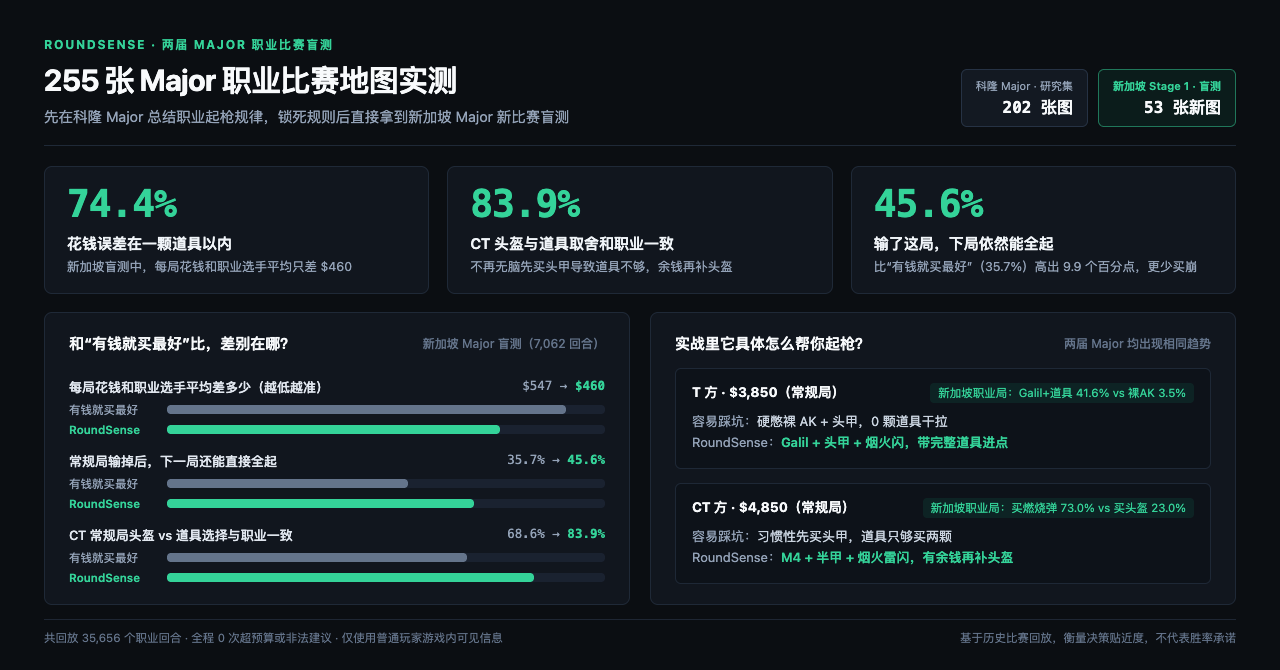
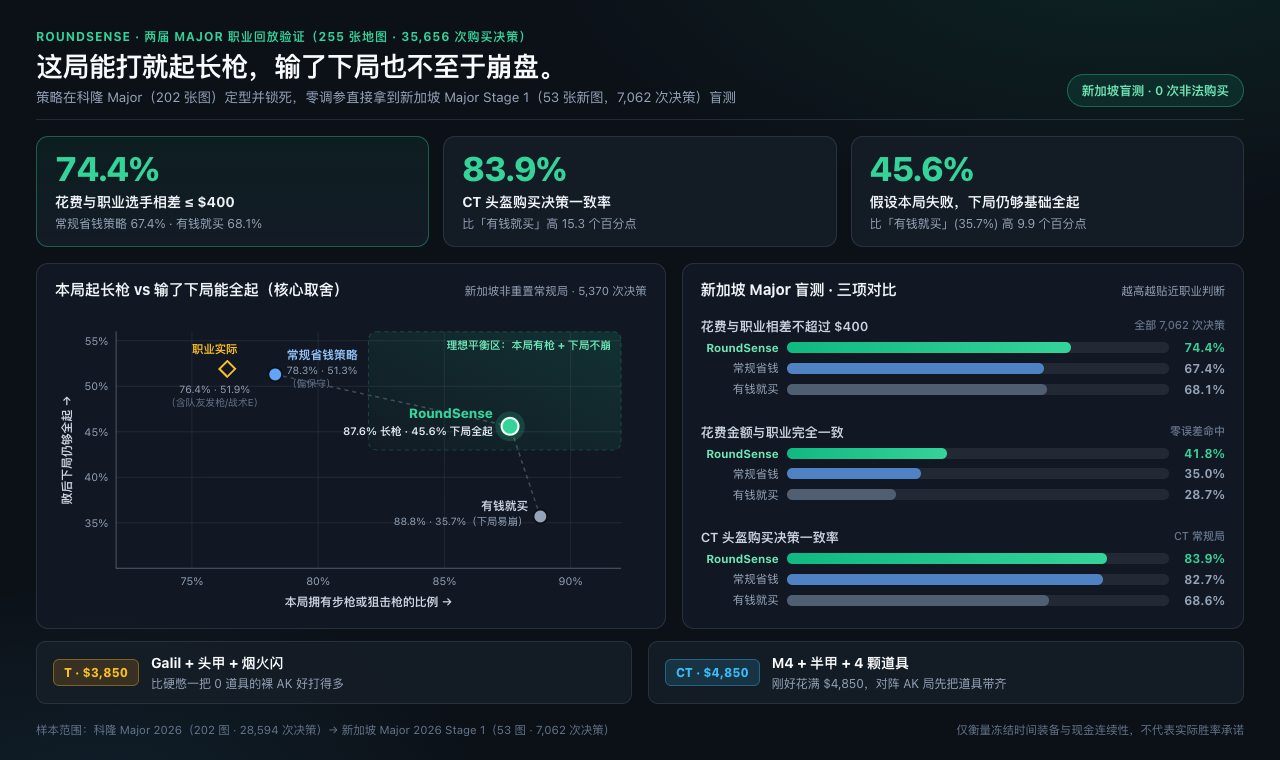
docs: tighten validation wording, add 2D tradeoff chart, and document corpus limits

Changed region(s): [[0.0312, 0.0299, 0.9688, 0.9851], [0.75, 0.0896, 0.9688, 0.209], [0.4062, 0.7463, 0.4688, 0.806]]

diff --git a/scripts/cross-event-replay-benchmark.ts b/scripts/cross-event-replay-benchmark.ts
@@ -954,6 +954,8 @@ async function main() {
       const econByRoundPlayer = new Map<string, PlayerEconRecord>();
       for (const e of economies) econByRoundPlayer.set(`${e.roundNumber}:${e.playerIndex}`, e);
 
+      // Corpus limitation #1: rounds.json does not expose the engine's internal loss-bonus
+      // counter directly, so we reconstruct it using standard MR12 win (-1) / loss (+1) stepping.
       const teamLoss = new Map<string, number>();
       let lossA = 1;
       let lossB = 1;
@@ -1041,6 +1043,9 @@ async function main() {
             kit: alive ? Boolean(flags & 4) : false,
             grenades: alive ? mapGrenades(track.grenades.at(-1)!) : [],
           };
+          // Corpus limitation #2: replay.json tracks only the active held weapon at round end
+          // rather than full inventory, so retained primary/secondary/helmet fall back to the
+          // prior round's freeze-time snapshot (large pickup jumps are filtered by >$800 delta).
           if (alive && prevEcon) {
             retainedPrimary = itemOf(prevEcon.primaryWeapon);
             retainedSecondary = itemOf(prevEcon.secondaryWeapon) ?? undefined;

diff --git a/README.md b/README.md
@@ -2,19 +2,19 @@
 
 **简体中文** | [English](README.en.md)
 
-**只读、零注入的 CS2 冻结时间经济决策 HUD。**  
-在每回合 15 秒冻结时间里，于雷达下方用 1–2 秒帮你看清三个最关键的问题：**这局最多值多少？预算内买什么？输了下一局还能不能全起？** 回合开始后自动隐藏，绝不打扰对枪。
+**不读内存、不注入游戏的 CS2 冻结时间买枪提示 HUD。**  
+每回合 15 秒冻结时间里，在雷达下方用 1–2 秒帮你看清三件事：**这局该花多少钱、买什么装备、输了下局还能不能全起。** 回合一开始就自动隐藏，绝不挡视野。
 
 ---
 
 ## 为什么做 RoundSense？
 
-很多 CS2 经济工具要么只给你丢一套固定配装，要么像外挂一样读内存。RoundSense 的起枪逻辑基于 **IEM Cologne Major 2026 职业比赛 demo（200+ 张地图、超过 2 万个有效回合）** 总结而来，不替你做唯一决定，而是把所有合理的起枪路线和后果并排摊开：
+市面上的 CS2 买枪工具，要么只给你塞一套死板配装，要么像外挂一样去读游戏内存。RoundSense 的起枪规则来自 **IEM Cologne Major 2026（202 张职业地图、2.8 万多次玩家购买记录）**，不替你做决定，而是把这局几种靠谱的买法和后果并排摆出来：
 
-1. **帮新人真正看懂 CS2 经济系统**  
-   不用死背“什么时候该起、什么时候该 E”。直接对照职业选手的常见起枪方式，一眼看清全起、强起、半起、ECO 分别会带来什么结果——为什么这局不能强起、半起最多花多少、为什么有时候必须保钱。
-2. **帮老玩家和指挥防上头**  
-   连败或焦灼局最容易一时上头无脑强起。RoundSense 直接把**强起的代价**摆在眼前（这局输了下一局剩多少钱、还能不能全起），帮你和队友在 15 秒内冷静判断该拼还是该 E。
+1. **帮新人快速看懂 CS2 经济**  
+   不用死背“什么时候该起、什么时候该 E”。直接对照职业比赛里常见的买法，一眼就能看明白全起、强起、半起和 ECO 各自是什么结果——为什么这局不能硬起、半起最多花多少、什么时候必须留钱。
+2. **帮老玩家和指挥少上头**  
+   连败或焦灼局最容易一拍脑袋无脑强起。RoundSense 直接把**强起的代价**摆在屏幕上（这局输了下局剩多少钱、还能不能起长枪），帮你和队友在 15 秒里冷静判断这局该拼还是该 E。
 
 > 对策略研究过程与职业语料验收细节感兴趣的玩家或开发者，可以查阅 [研究归档索引](docs/research-index.md)。
 
@@ -40,25 +40,25 @@
 
 ## 这套买枪建议靠谱吗？（两届 Major 职业回放盲测）
 
-很多人最关心的问题很简单：**「它是不是瞎推荐的？跟自己凭感觉买有什么区别？」**
+很多人第一反应会问：**「它推荐的到底靠不靠谱？跟我自己凭感觉买有什么区别？」**
 
-为了验证这一点，我们先在 **IEM Cologne Major 2026**（202 张职业地图）上研究职业选手的起枪习惯并定型规则，随后**直接锁死算法**，不做任何调参，原封不动拿到另一届 Major —— **PGL Singapore Major 2026 · Stage 1**（53 张新图、7,062 个回合）上盲测。测试全程只给 RoundSense 看普通玩家在游戏里能看到的钱和装备：
+为了验证，我们先在 **IEM Cologne Major 2026**（202 张职业地图）上研究职业选手的买枪习惯并把规则定死，随后**不做任何调参**，直接拿到另一届 Major —— **PGL Singapore Major 2026 · Stage 1**（53 张新图、7,062 次玩家购买决策）上盲测。测试全程只给 RoundSense 看普通玩家在游戏里能看到的钱和装备：
 
 ![RoundSense 两届 Major 职业回放盲测（科隆 vs 新加坡 Stage 1）](docs/assets/cross-event-validation.png)
 
-普通玩家最直观的三点感受（新加坡 Major 盲测结果，只看第 1 推荐方案）：
+它不是一味劝你省钱的保守策略，也不是有钱就乱花——核心就是把**这局的装备**和**下局的经济**平衡好（以下为新加坡 Major 盲测中第 1 推荐方案的结果）：
 
-- **买得更像职业哥**：**74.4%** 的回合花钱误差在一颗道具（$400）以内，每局平均只差 **$460**；保枪补装备时平均只差 **$272**。
-- **不容易把下一局买崩**：输掉常规局后，下局依然能直接全起的比例达到 **45.6%**（比「有钱就买最好」高出 **9.9 个百分点**），同时本局仍然保持 **87.6%** 的长枪/狙火力。
-- **道具和头盔取舍更稳，零低级错误**：主武器选择与职业一致率 **77.4%**，CT 什么时候该先买道具、什么时候再补头盔一致率 **83.9%**；整届比赛 **0 次超预算、0 次买错阵营、0 次重复废话**。
+- **花钱贴近职业判断**：**74.4%** 的决策与职业选手实际花费相差不超过 **$400**（平均差 **$460**，保枪补装备时平均只差 **$272**），**41.8%** 金额完全一致。
+- **这局有长枪，输了下局也不易崩**：**87.6%** 的非重置常规局能起出步枪或狙击枪（接近「有钱就买」的 88.8%），同时**假设本局失败，下局现金仍够基础全起**的比例达到 **45.6%**（比「有钱就买」高出 **9.9 个百分点**）。
+- **头盔与武器选择更稳，不犯低级错**：主武器类别一致率 **77.4%**，**CT 头盔购买决策一致率 83.9%**；全部纳入验证的样本中 **0 次非法购买、0 次超预算、0 次重复选项**。
 
-典型实战里它会怎么帮你做决定？
+实战里遇到下面这些常见局势，它会怎么建议？
 
-| 常见局势 | 简单买法容易踩的坑 | RoundSense 怎么给建议 |
+| 常见局势 | 凭感觉买容易踩的坑 | RoundSense 怎么给建议 |
 | :--- | :--- | :--- |
-| **T · $3,850**（常规局） | 硬憋裸 AK + 头甲，0 颗道具干拉 | 推荐 **Galil + 头甲 + 烟火闪**，完整配装进点 |
-| **CT · $4,850**（常规局） | 习惯性先买头甲，道具只剩两颗 | 优先 **M4 + 半甲 + 烟火雷闪**（有余钱再补头盔，并附注队友无钳可补钳） |
-| **CT · $3,450**（连败 1 局） | 要么全花光把下局买崩，要么干脆 $0 发呆 | 给出 **半起上限 `≤ $1,300`**（输了下一局仍可全起）+ ECO / 强起对照 |
+| **T · $3,850**（常规局） | 硬憋裸 AK + 头甲，0 颗道具干拉 | 推荐 **Galil + 头甲 + 烟火闪**，装备完整好进点 |
+| **CT · $4,850**（常规局） | 习惯性先买头甲，道具只剩两颗 | 推荐 **M4 + 半甲 + 4 颗道具**（刚好花满 $4,850，对阵 AK 局先把道具带齐） |
+| **CT · $3,450**（连败 1 局） | 要么全花光把下局买崩，要么干脆 $0 发呆 | 给出 **半起上限 `≤ $1,300`**（假设败局下局仍够全起），同时列出 ECO / 强起方便对比 |
 
 <details>
 <summary>展开查看完整跨赛事技术对照表（四组基准 · 科隆开发集 vs 新加坡 S1 盲测）</summary>
@@ -67,18 +67,20 @@
 | :--- | ---: | ---: |
 | **首选购买金额平均偏差 MAE**（vs B0 / B1 / B2） | **$472**（vs $555 / $490 / $539） | **$460**（vs $547 / $461 / $527） |
 | **首选误差 ≤ $400** | **73.2%**（vs 66.7% / 64.2% / 72.0%） | **74.4%**（vs 68.1% / 67.4% / 74.0%） |
+| **首选金额完全一致**（vs B0 / B1 / B2） | **39.7%**（vs 28.3% / 32.9% / 35.4%） | **41.8%**（vs 28.7% / 35.0% / 36.7%） |
 | **首选主武器类别一致率** | **76.8%**（vs 69.2% / 77.5% / 72.1%） | **77.4%**（vs 69.6% / 77.6% / 72.7%） |
-| **CT 常规局头盔一致率** | **83.0%**（vs 71.7% / 80.8% / 76.7%） | **83.9%**（vs 68.6% / 82.7% / 74.2%） |
-| **本局步枪/狙火力 · 败后下局全起**（职业实际 73.1%·51.6% / 76.4%·51.9%） | **86.4% · 44.3%**（B0 86.7%·33.3% / B1 75.3%·51.6%） | **87.6% · 45.6%**（B0 88.8%·35.7% / B1 78.3%·51.3%） |
+| **CT 常规局头盔购买决策一致率** | **83.0%**（vs 71.7% / 80.8% / 76.7%） | **83.9%**（vs 68.6% / 82.7% / 74.2%） |
+| **本局步枪/狙持有率 · 败后下局基础全起**（职业实际 73.1%·51.6% / 76.4%·51.9%） | **86.4% · 44.3%**（B0 86.7%·33.3% / B1 75.3%·51.6%） | **87.6% · 45.6%**（B0 88.8%·35.7% / B1 78.3%·51.3%） |
 | **备选方案 ≤ $400 覆盖 / 平均方案数** | **81.8% / 1.55** | **82.6% / 1.52** |
 | **机械审计（非法或超限 / 重复方案 / 半起破底线）** | **0 / 0 / 0**（旧版 V3: 0 / 10,208 / 1,904） | **0 / 0 / 0**（旧版 V3: 0 / 2,524 / 369） |
 
-- 统一复现脚本（基于 `replay.json` 回合末真实状态恢复）：[cross-event-replay-benchmark.ts](scripts/cross-event-replay-benchmark.ts)
+- 统一复现脚本（基于 `replay.json` 回合末存活/护甲/钳子/道具恢复）：[cross-event-replay-benchmark.ts](scripts/cross-event-replay-benchmark.ts)
 - 完整机器可读数据：[cologne-cross-event-benchmark.json](docs/data/cologne-cross-event-benchmark.json) · [singapore-s1-cross-event-benchmark.json](docs/data/singapore-s1-cross-event-benchmark.json)
+- **已知语料恢复局限**：① 语料 `rounds.json` 未单独记录引擎连败计数器，连败等级按胜局减 1、败局加 1 推算；② 语料 `replay.json` 仅记录回合末当前手持武器而非完整背包，存活保留的主武器与头盔沿用上一局冻结时间结束时的装备记录（局内捡枪导致的大额价值跳变已通过 `>$800` 价值偏差过滤排除）。
 
 </details>
 
-- *说明：以上为基于历史比赛录像的冻结时间决策回放验证；新加坡 Stage 1 未参与任何策略制定，数据原样保留，衡量决策合理性与经济连续性，不代表胜率承诺。*
+- *说明：以上为基于历史比赛录像的冻结时间回放验证；新加坡 Stage 1 未参与任何规则调整，数据原样保留，仅衡量装备与现金连续性，不代表胜率承诺。*
 
 ---
 
@@ -86,7 +88,7 @@
 
 - **解压即用**：Windows 便携 ZIP 内置完整 Node 运行时与本地服务，无需安装 Node、pnpm 或 Rust。
 - **绝对只读、兼容 VAC**：仅使用 CS2 官方本地 HTTP Game State Integration（`127.0.0.1:3001`）与只读 Win32 窗口定位，**绝不读取或修改游戏内存，不注入游戏进程**。
-- **克制且诚实**：不编造拿不到的对手精确现金，不提供未经校准的 C4 倒计时；一旦离开冻结时间、切出游戏、进入观战或数据超时，HUD 自动隐藏。
+- **只展示拿得到的数据**：不猜对手手里精确有多少钱，也不给没校准的 C4 倒计时；离开冻结时间、切出游戏、进入观战或数据断开时，HUD 自动隐藏。
 - **三种经济角色**：支持 `步枪手`、`狙击手` 与 `Jame 攒狙`（买不起但下局能攒出 AWP + 半甲时，额外给出 ECO 攒狙路线）。
 - **一键配置与离线预览**：自动发现 Steam / CS2 目录并一键写入 GSI 配置（自动检测同端口冲突并备份原配置）；设置页内置亮/暗图与多比例离线场景，不开游戏也能先调好位置、缩放和透明度。
 - **安静的桌面体验**：单实例运行、关闭设置窗自动缩入系统托盘、叠层鼠标穿透且不抢游戏焦点；退出或异常关闭时通过 Windows Job Object 自动回收后台进程。
@@ -114,13 +116,13 @@
 ## 常见问答（FAQ）
 
 **Q：RoundSense 如何与 CS2 交互？安全性如何？**  
-RoundSense 仅通过 Valve 官方提供的本地 Game State Integration（GSI）HTTP 推送接收只读状态，并以独立的系统透明置顶窗口渲染叠层——**不读取或修改游戏内存、不向 `cs2.exe` 注入任何 DLL、不钩子游戏渲染、也不模拟任何键盘鼠标输入**。作为第三方开源工具，我们无法替 Valve 提供绝对的反作弊保证，但整个架构严格恪守只读零注入边界。
+RoundSense 仅通过 Valve 官方提供的本地 Game State Integration（GSI）HTTP 推送接收只读状态，并以独立的系统透明置顶窗口渲染叠层——**不读取或修改游戏内存、不向 `cs2.exe` 注入任何 DLL、不钩子游戏渲染、也不模拟任何键盘鼠标输入**。作为第三方开源工具，我们不能替 Valve 做绝对保证，但整个工具只走官方只读接口，绝不碰游戏进程和内存。
 
 **Q：为什么必须把 CS2 设为「全屏窗口化」？**  
 正因为 RoundSense 坚持不注入游戏进程，HUD 以独立的系统透明置顶窗口渲染。Windows 下独占全屏会由显卡驱动接管画面并遮挡外部窗口，切到「全屏窗口化」即可在零注入的前提下正常显示。
 
 **Q：为什么手枪局、观战或回合开始后看不到 HUD？**  
-这是刻意设计：回合开始后自动隐藏，避免遮挡视野；手枪局配装高度依赖个人与战术习惯，不强行建议；观战或非竞技模式同样自动隐藏。
+这是故意这样做的：回合开始后自动隐藏，避免挡视野；手枪局配装高度依赖个人与战术习惯，不强行建议；观战或非竞技模式同样自动隐藏。
 
 ---
 

diff --git a/README.en.md b/README.en.md
@@ -42,43 +42,45 @@ The live overlay contains only what you need to decide in a glance—zero prose,
 
 Every CS2 player asks the same question: **"Is this actually better than buying by gut feel?"**
 
-To test it honestly, we studied pro buying habits across **IEM Cologne Major 2026** (202 maps), **froze the rules**, and then ran them untouched—zero tuning—on a completely separate Major: **PGL Singapore Major 2026 · Stage 1** (53 new maps, 7,062 rounds), feeding it only the cash and gear a normal player sees in freezetime:
+To test it honestly, we studied pro buying habits across **IEM Cologne Major 2026** (202 maps), **froze the rules**, and then ran them untouched—zero tuning—on a completely separate Major: **PGL Singapore Major 2026 · Stage 1** (53 new maps, 7,062 player buy decisions), feeding it only the cash and gear a normal player sees in freezetime:
 
 ![RoundSense Cross-Event Out-of-Sample Validation (Cologne vs Singapore Stage 1)](docs/assets/cross-event-validation.png)
 
-Three things you actually feel in-game (from the **Singapore Major blind test**, comparing only the #1 top suggestion):
+RoundSense isn’t trying to be the stingiest eco bot—it balances **having a real gun this round** against **not breaking next round** (Singapore Major blind test, comparing only the #1 top suggestion):
 
-- **Buys closer to pro habits**: **74.4%** of rounds land within one grenade (**$400**) of actual pro spend ($460 average gap overall, and just **$272** when carrying gear over).
-- **Far less likely to break next round**: After losing a normal round, you can still full-buy next round **45.6%** of the time (**+9.9 percentage points** over "buy the best gun you can afford") while keeping rifle/AWP firepower on **87.6%** of rounds.
-- **Smarter helmet & utility calls, zero bad math**: **77.4%** main weapon match, **83.9%** CT helmet-vs-utility match, and **0** over-budget, wrong-side, or duplicate suggestions across the entire event.
+- **Spend stays close to pro decisions**: **74.4%** of decisions land within **$400** of actual pro spend ($460 average gap overall, **$272** when carrying gear over), with **41.8%** exact spend matches.
+- **Keep rifles now, still protect next round**: **87.6%** of normal non-reset rounds have a rifle or AWP (nearly matching "buy everything" at 88.8%), while **assuming a round loss, next-round cash still covers a basic full buy** **45.6%** of the time (**+9.9 percentage points** over "buy everything" at 35.7%).
+- **Cleaner helmet calls, zero illegal buys**: **77.4%** primary weapon family match, **83.9%** CT helmet decision match, and **0** illegal, over-budget, or duplicate buys across all evaluated samples.
 
 What does that look like in a real match?
 
 | Common Round | Typical Pitfall | What RoundSense Suggests |
 | :--- | :--- | :--- |
 | **T · $3,850** (normal) | Forcing bare AK + Vesthelm with 0 grenades | **Galil + Vesthelm + Smoke/Molotov/Flash** for a full execute |
-| **CT · $4,850** (normal) | Auto-buying helmet and running dry on utility | **M4 + Kevlar + 4 grenades** (tops up helmet with spare cash; optional kit note) |
-| **CT · $3,450** (1 loss) | Spending everything and breaking next round, or AFK $0 | **Light buy cap `≤ $1,300`** (protects next full buy) alongside ECO / Force |
+| **CT · $4,850** (normal) | Auto-buying helmet and running dry on utility | **M4 + Kevlar + 4 grenades** (uses the exact $4,850; skips helmet vs. AKs to bring full utility) |
+| **CT · $3,450** (1 loss) | Spending everything and breaking next round, or AFK $0 | **Light buy cap `≤ $1,300`** (assuming a loss, next round still full-buys) alongside ECO / Force |
 
 <details>
 <summary>Full technical cross-event table (4 strategies · Cologne study set vs. Singapore S1 blind test)</summary>
 
-| Strict 1-vs-1 Lead Metric (All Eligible Rounds) | Cologne Study Set (`n=28,594`) | Singapore S1 Blind Test (`n=7,062`) |
+| Strict 1-vs-1 Lead Metric (All Eligible Decisions) | Cologne Study Set (`n=28,594`) | Singapore S1 Blind Test (`n=7,062`) |
 | :--- | ---: | ---: |
 | **Lead spend MAE** (vs. B0 / B1 / B2) | **$472** (vs. $555 / $490 / $539) | **$460** (vs. $547 / $461 / $527) |
 | **Lead spend within $400** | **73.2%** (vs. 66.7% / 64.2% / 72.0%) | **74.4%** (vs. 68.1% / 67.4% / 74.0%) |
+| **Lead exact spend match** (vs. B0 / B1 / B2) | **39.7%** (vs. 28.3% / 32.9% / 35.4%) | **41.8%** (vs. 28.7% / 35.0% / 36.7%) |
 | **Lead primary weapon family match** | **76.8%** (vs. 69.2% / 77.5% / 72.1%) | **77.4%** (vs. 69.6% / 77.6% / 72.7%) |
-| **CT normal-round helmet match** | **83.0%** (vs. 71.7% / 80.8% / 76.7%) | **83.9%** (vs. 68.6% / 82.7% / 74.2%) |
-| **Current rifle/AWP · Next-round full-buy** (pro: 73.1%·51.6% / 76.4%·51.9%) | **86.4% · 44.3%** (B0 86.7%·33.3% / B1 75.3%·51.6%) | **87.6% · 45.6%** (B0 88.8%·35.7% / B1 78.3%·51.3%) |
+| **CT normal-round helmet decision match** | **83.0%** (vs. 71.7% / 80.8% / 76.7%) | **83.9%** (vs. 68.6% / 82.7% / 74.2%) |
+| **Current rifle/AWP · Post-loss next-round full-buy** (pro: 73.1%·51.6% / 76.4%·51.9%) | **86.4% · 44.3%** (B0 86.7%·33.3% / B1 75.3%·51.6%) | **87.6% · 45.6%** (B0 88.8%·35.7% / B1 78.3%·51.3%) |
 | **Option-set within $400 / avg options** | **81.8% / 1.55** | **82.6% / 1.52** |
 | **Mechanical audit (illegal/cap / duplicate / light-floor)** | **0 / 0 / 0** (legacy V3: 0 / 10,208 / 1,904) | **0 / 0 / 0** (legacy V3: 0 / 2,524 / 369) |
 
-- Reproducible unified script (`replay.json` end-of-round state recovery): [cross-event-replay-benchmark.ts](scripts/cross-event-replay-benchmark.ts)
+- Reproducible unified script (`replay.json` end-of-round alive/armor/kit/grenade recovery): [cross-event-replay-benchmark.ts](scripts/cross-event-replay-benchmark.ts)
 - Machine-readable reports: [cologne-cross-event-benchmark.json](docs/data/cologne-cross-event-benchmark.json) · [singapore-s1-cross-event-benchmark.json](docs/data/singapore-s1-cross-event-benchmark.json)
+- **Known corpus recovery approximations**: (1) `rounds.json` does not store the engine's internal loss-bonus counter directly, so loss index is reconstructed via the standard MR12 win-decrement / loss-increment rule; (2) `replay.json` only records the active held weapon at round end rather than full inventory, so surviving players' carried primary weapon and helmet fall back to the prior freeze-time snapshot (large mid-round pickup value jumps are filtered out via the `>$800` equipment delta check).
 
 </details>
 
-- *Note: Historical freezetime decision replay. Singapore Stage 1 was never used to tune any policy rule; results are reported verbatim and measure decision quality & economy continuity rather than win-rate guarantees.*
+- *Note: Historical freezetime decision replay. Singapore Stage 1 was never used to tune any policy rule; results are reported verbatim and measure equipment & cash continuity rather than win-rate guarantees.*
 
 ---
 
